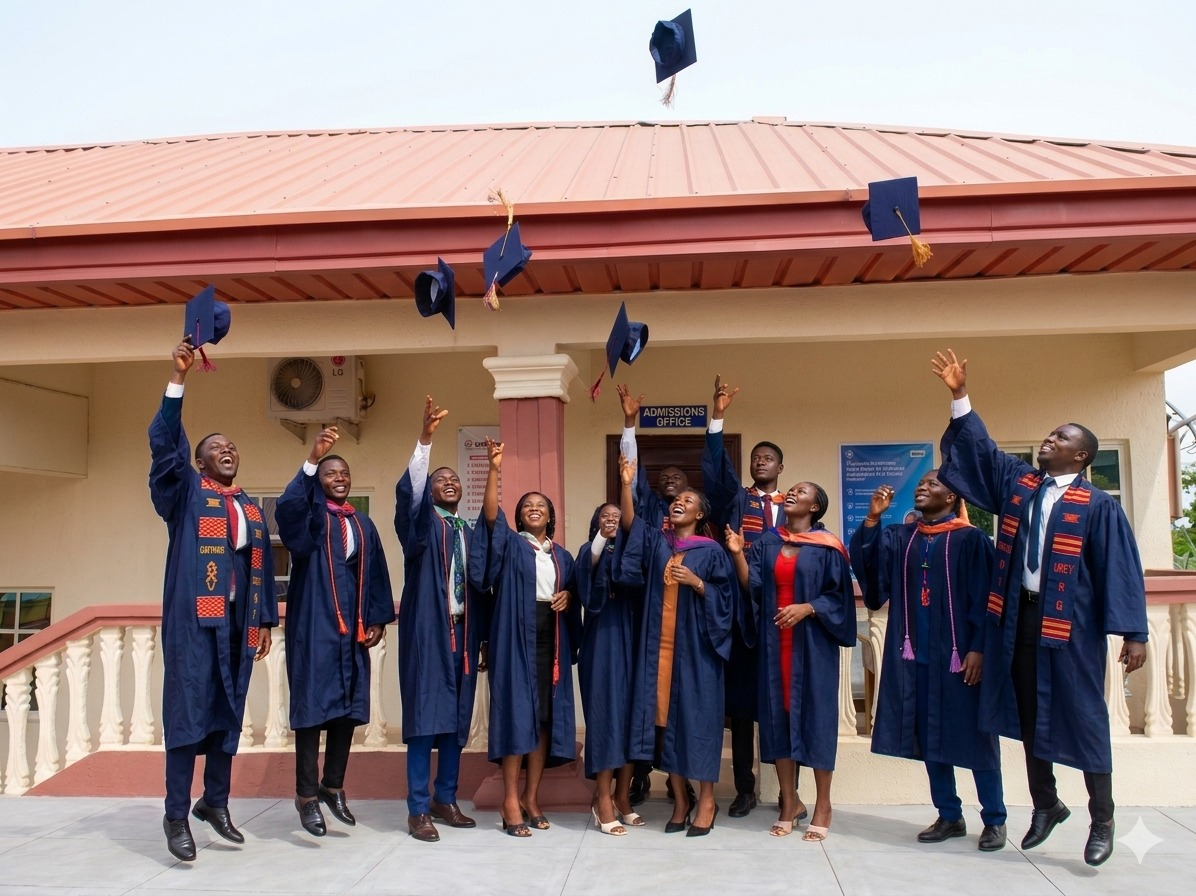
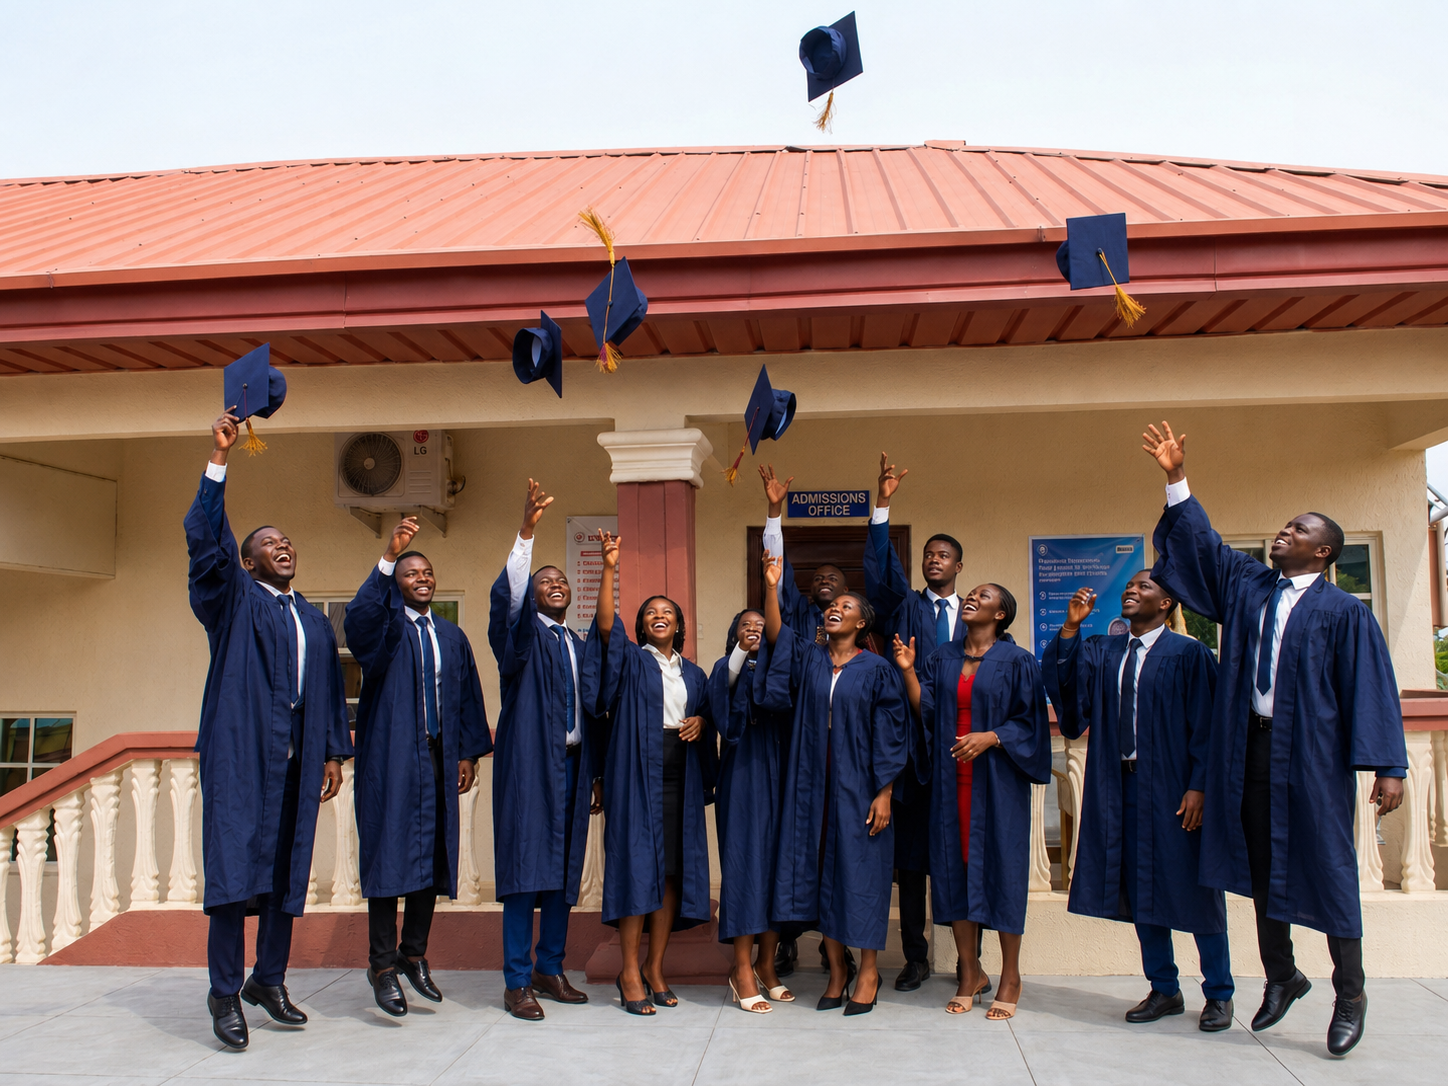
updates

diff --git a/src/pages/Home.jsx b/src/pages/Home.jsx
@@ -671,7 +671,7 @@ export default function Home() {
                   date: "January 2025",
                   title: "Post-UTME & Direct Entry Applications Now Open",
                   excerpt: "Applications for the 2025/2026 session are being accepted at both Umunya and Oba campuses.",
-                  img: "/black_student_female.png"
+                  img: "/black_student_librarye.png"
                 },
                 {
                   date: "December 2024",